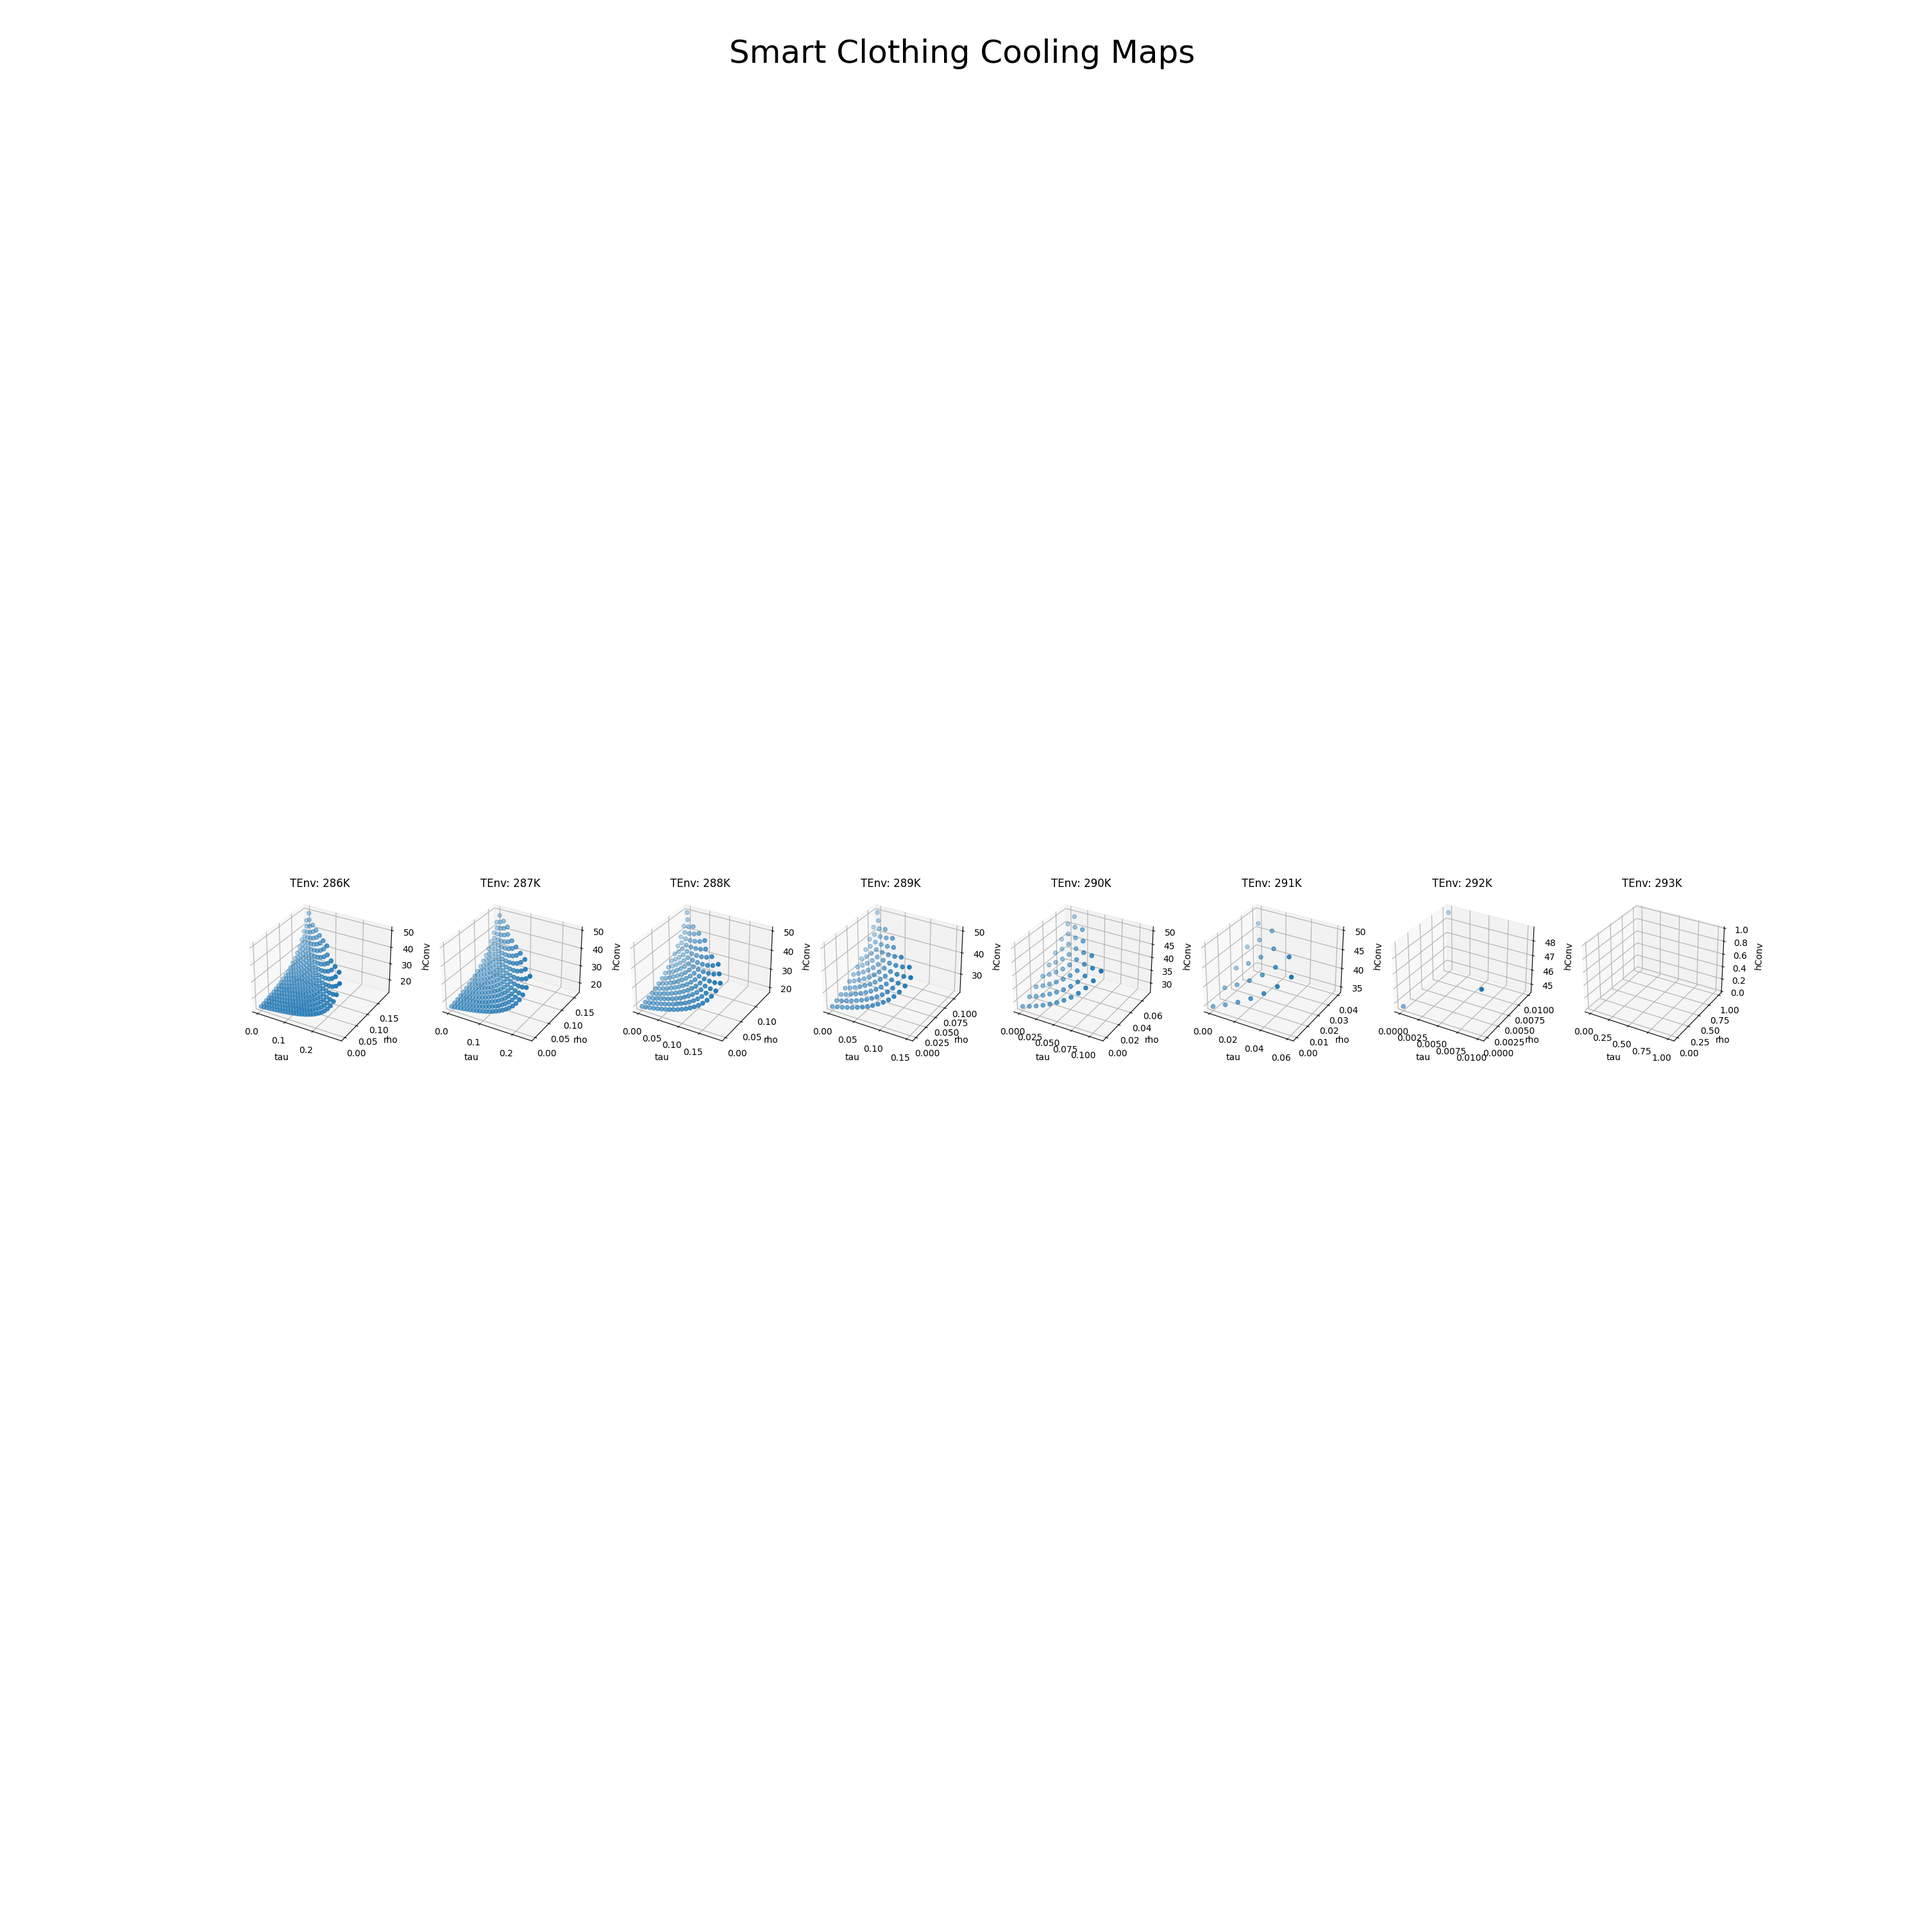
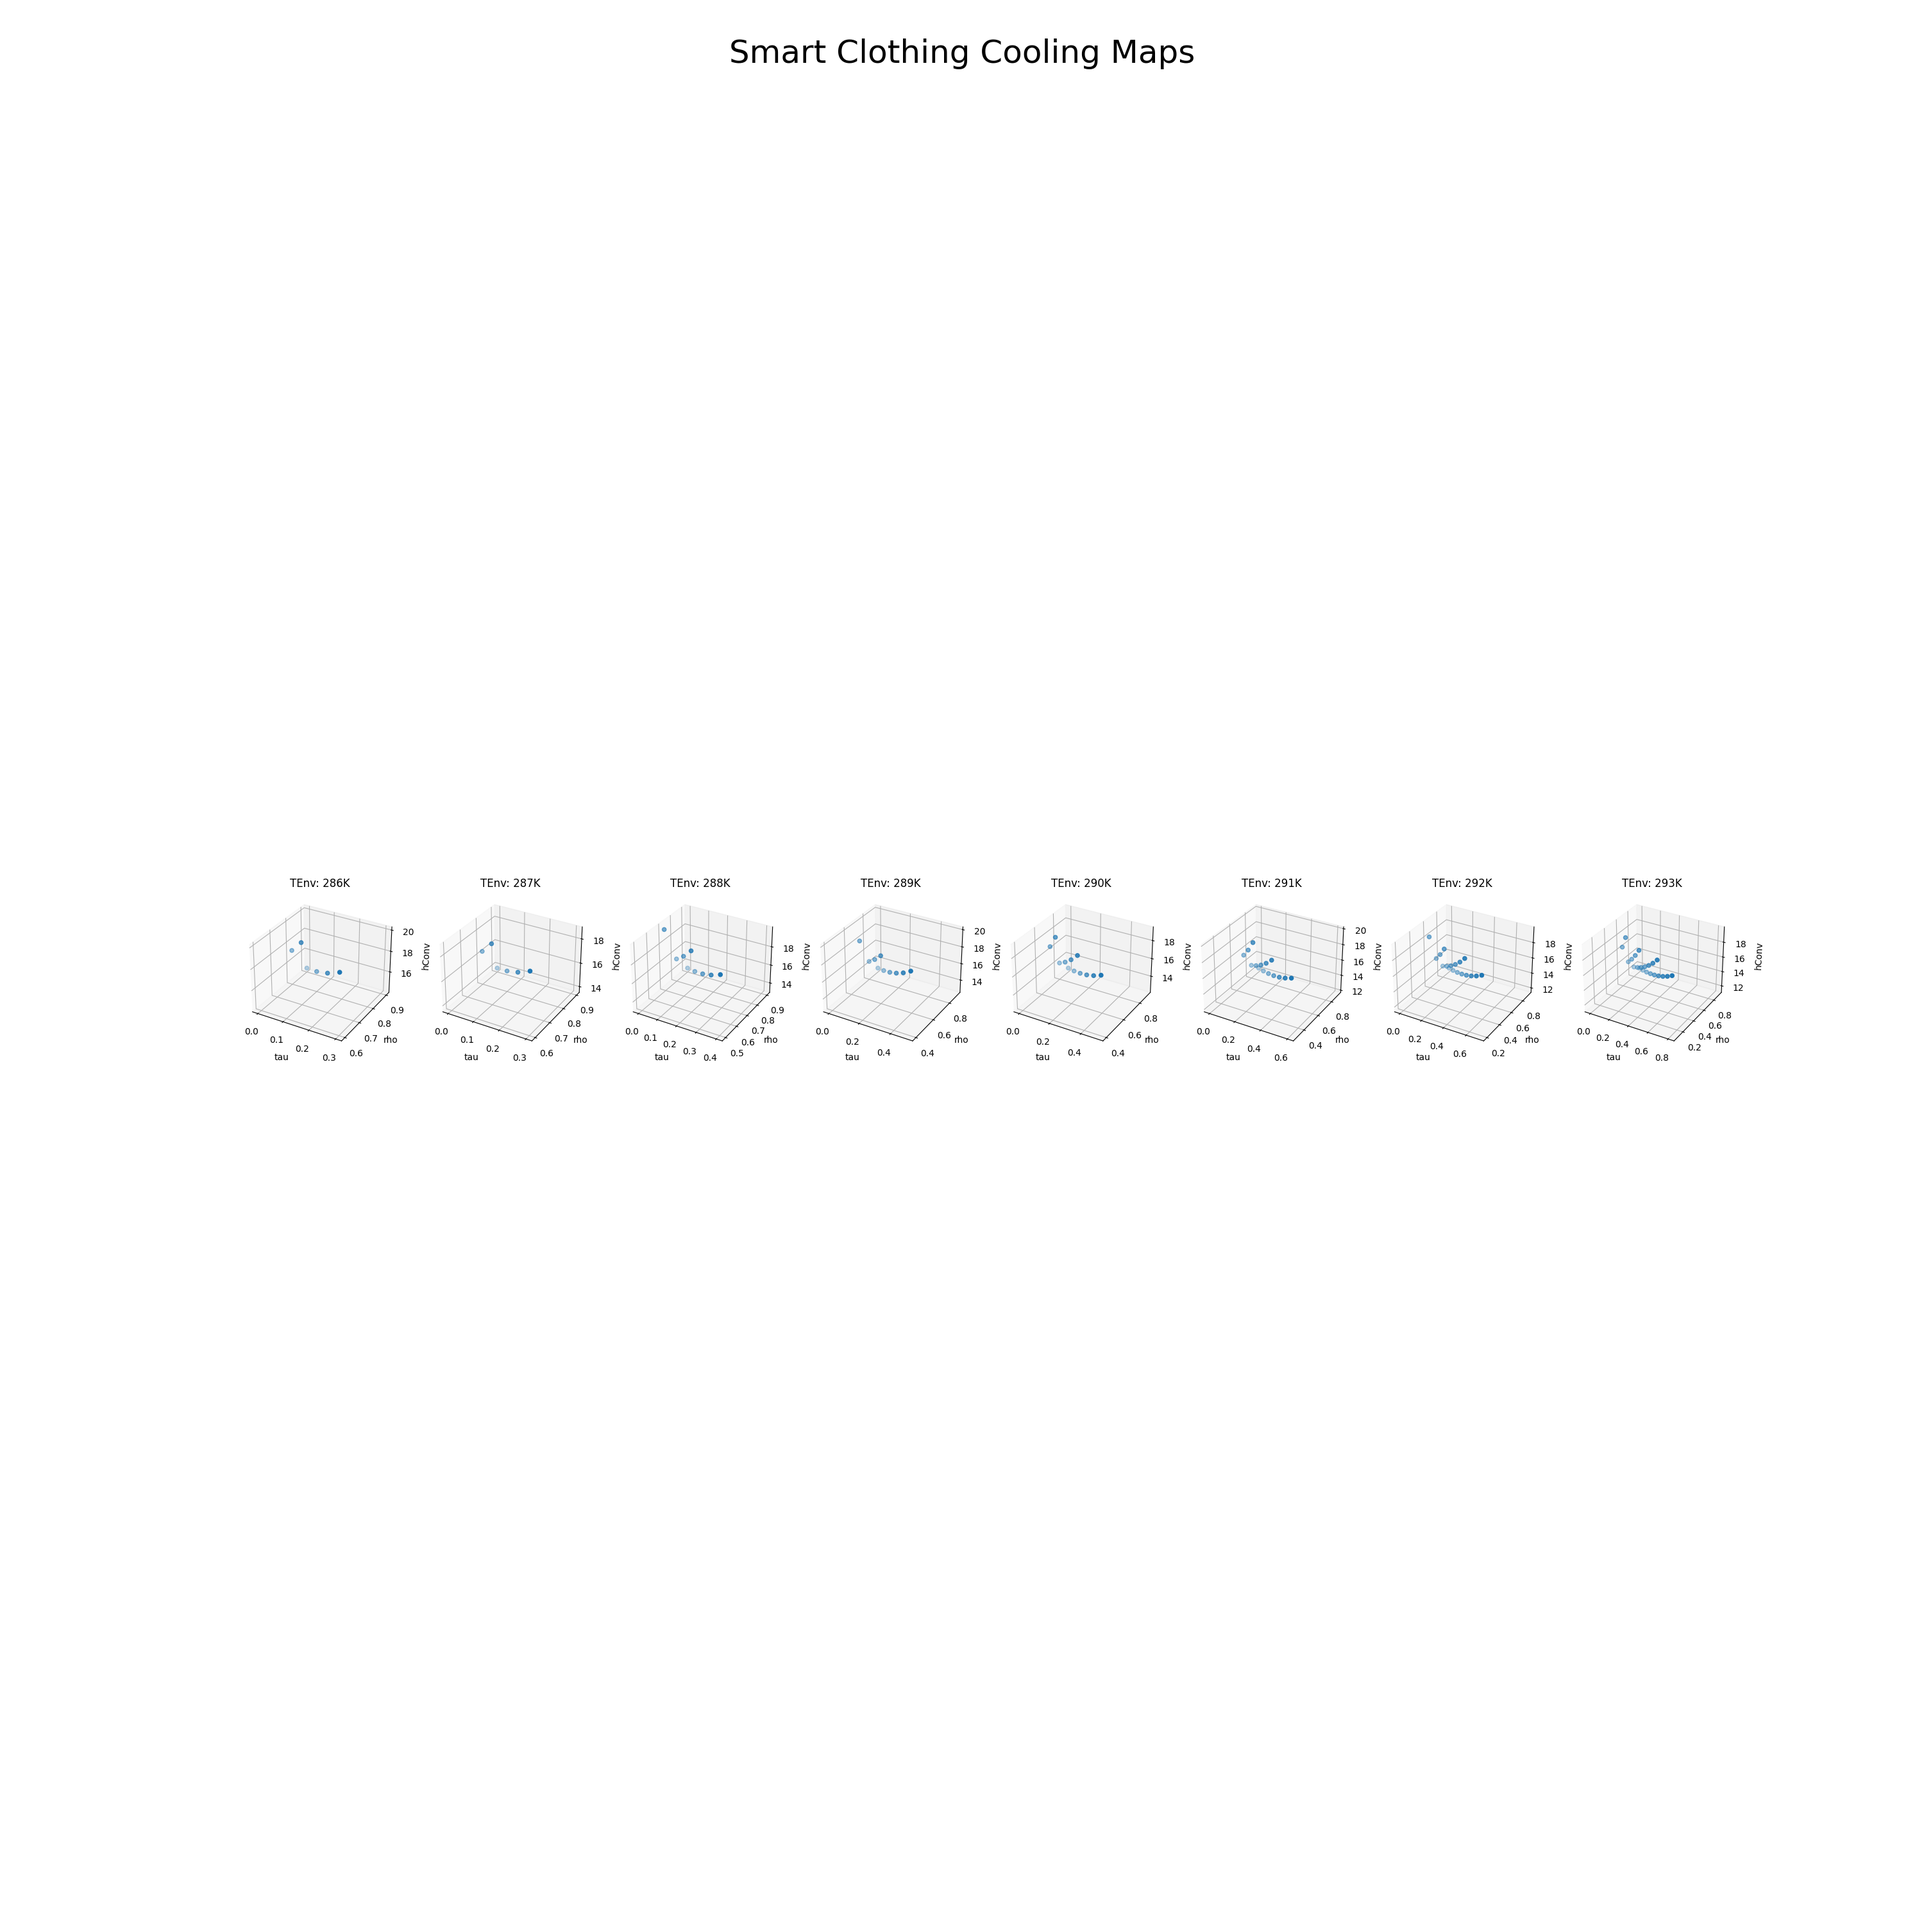
indoor cooling: smart clothing should keep low epsilonClo; for outdoor cooling, should keep high epsilonClo. The range of hConv is around 0 - 8

diff --git a/insulation.py b/insulation.py
@@ -26,10 +26,19 @@ import matplotlib
 # constants
 # degree C
 TBody = 34 + 273
-# TEnv = 22+273
+# opereation = "heating"
+# opereation = "indoor cooling"
+opereation = "outdoor cooling"
 #
-TEnvLow = 22 + 273
-TEnvHigh = 30 + 273
+if (opereation == "heating"):
+    TEnvLow = 12 + 273
+    TEnvHigh = 20 + 273
+elif(opereation == "outdoor cooling"):
+    TEnvLow = 35 + 273
+    TEnvHigh = 40 + 273
+else:
+    TEnvLow = 25 + 273
+    TEnvHigh = 28 + 273
 # watts/K/m2
 Metab = 58
 
@@ -67,10 +76,10 @@ for TEnv in range(TEnvLow,TEnvHigh):
     epsilonCloList = []
     qRE = sigma * TEnv ** 4
 
-    for tauClo in np.linspace(0, 1, 101):
-        # tauClo = 0.7
-        for rhoClo in np.linspace(0, 1, 101):
-            # rhoClo = 0.1
+    for tauClo in np.linspace(0, 1, 11):
+        # tauClo = 0.03
+        for rhoClo in np.linspace(0, 1, 11):
+            # rhoClo = 0.3
             if (tauClo + rhoClo) > 1:
                 continue
             epsilonClo = 1 - tauClo - rhoClo
@@ -87,7 +96,7 @@ for TEnv in range(TEnvLow,TEnvHigh):
             except ZeroDivisionError:
                 continue
             # print("TCloOne:" + str(TCloOneRoots[0][1].real)+", TEnv:" + str(TEnv))
-            if (TCloOneRoots[0][1].real > 0 and TCloOneRoots[0][1].real > TEnv):
+            if (TCloOneRoots[0][1].real > 0 and TCloOneRoots[0][1].real < TEnv):
                 TCloOne = TCloOneRoots[0][1].real
             else:
                 continue
@@ -97,7 +106,7 @@ for TEnv in range(TEnvLow,TEnvHigh):
             qRCloTwo = epsilonClo *sigma*TCloTwo**4
             qConvCE = Metab - tauClo*qRS+(epsilonClo-rhoClo)*qRE - qRCloTwo
             hConvCE = qConvCE/(TCloTwo - TEnv)
-            if(hConvCE <= 0 or hConvCE >= 50 ):
+            if(hConvCE <= 0 or hConvCE > 50  ):
                 continue
             tauCloList.append(tauClo)
             rhoCloList.append(rhoClo)
@@ -113,8 +122,8 @@ for TEnv in range(TEnvLow,TEnvHigh):
     Z.append(zhconv)
     Epsilon.append(epcl)
 plots = zip(X,Y,Z)
-for idx,itm in enumerate(X):
-    print(len(itm))
+# for idx,itm in enumerate(X):
+#     print(len(itm))
 # print(X)
 # print(Y)
 # print(Epsilon)
@@ -136,15 +145,15 @@ def loop_plot(plots,len):
             ax.set_xlabel('tau')
             ax.set_ylabel('rho')
             ax.set_zlabel('hConv')
-            # plt.xlim([0, 1])
-            # plt.ylim([0, 1])
+            plt.xlim([0, 1])
+            plt.ylim([0, 1])
             # xyLabel =False
     return figs
 figs = loop_plot(plots,len(X))
 
 
-figs.suptitle("Smart Clothing Cooling Maps",fontsize=36)
-# figs.savefig("TEnv from "+str(TEnvLow) +"K to "+str(TEnvHigh)+"K.png")
+figs.suptitle("Smart Clothing "+opereation+" Maps",fontsize=36)
+figs.savefig(opereation+" from "+str(TEnvLow) +"K to "+str(TEnvHigh)+"K.png")
 plt.show()
 
 
